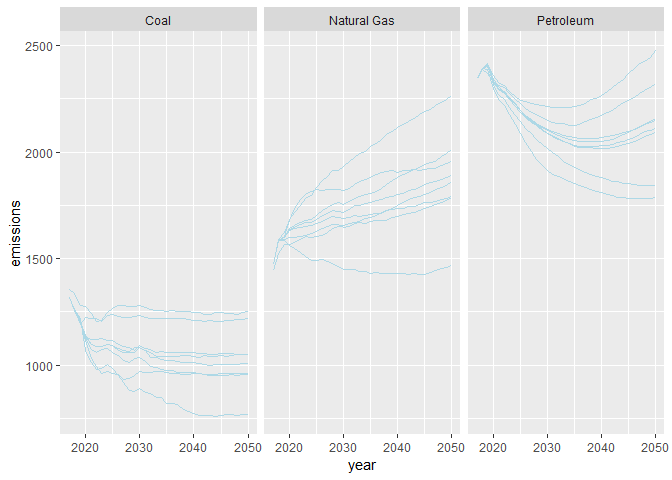
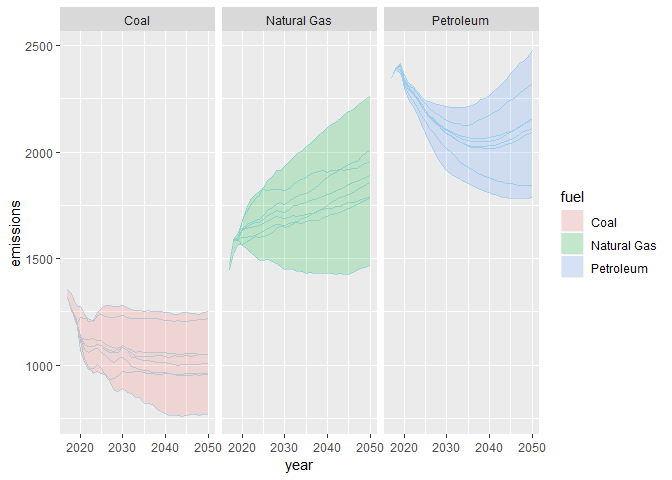
include geom_envelope in README

diff --git a/README.md b/README.md
@@ -36,6 +36,9 @@ ggplot(ei_ex,
 
 <img src="man/figures/README-example-1.png" width="100%" />
 
+This version uses the `envelope_fig` function which constructs the
+entire plot:
+
 ``` r
 
 envelope_fig(aeo_ex, xname = year, yname = emissions, 
@@ -45,13 +48,39 @@ envelope_fig(aeo_ex, xname = year, yname = emissions,
 
 <img src="man/figures/README-unnamed-chunk-2-1.png" width="100%" />
 
+However, this approach is not as flexible as using the official ggplot2
+extension approach. The following approach extends `geom_ribbon` with a
+new function `geom_envelope` that calculates the minimum/maximum at each
+value of `y` and draws an envelope around that range.
+
 ``` r
 
 ggplot(aeo_ex,
        mapping = aes(x = year,
                      y = emissions)) +
   facet_grid(. ~ fuel) +
-  geom_line(aes(group = scenario), color = "light blue")
+  geom_line(aes(group = scenario), 
+            color = "light blue") +
+  geom_envelope(aes(fill = fuel))
 ```
 
 <img src="man/figures/README-unnamed-chunk-3-1.png" width="100%" />
+
+This approach allows re-mixing the geometry in different ways, e.g.,
+without the facetting:
+
+``` r
+ggplot(aeo_ex,
+       mapping = aes(x = year,
+                     y = emissions)) +
+  geom_line(aes(group = interaction(fuel, scenario)), 
+                color = "light blue") +
+  geom_envelope(aes(fill = fuel, group = fuel))
+```
+
+<img src="man/figures/README-unnamed-chunk-4-1.png" width="100%" />
+
+One important detail: the line geom and the envelope geom have different
+groupings, so the group aesthetic will have to be specified in one or
+both geoms. The `interaction` function is useful to group by the
+interaction of two variables on the fly.
